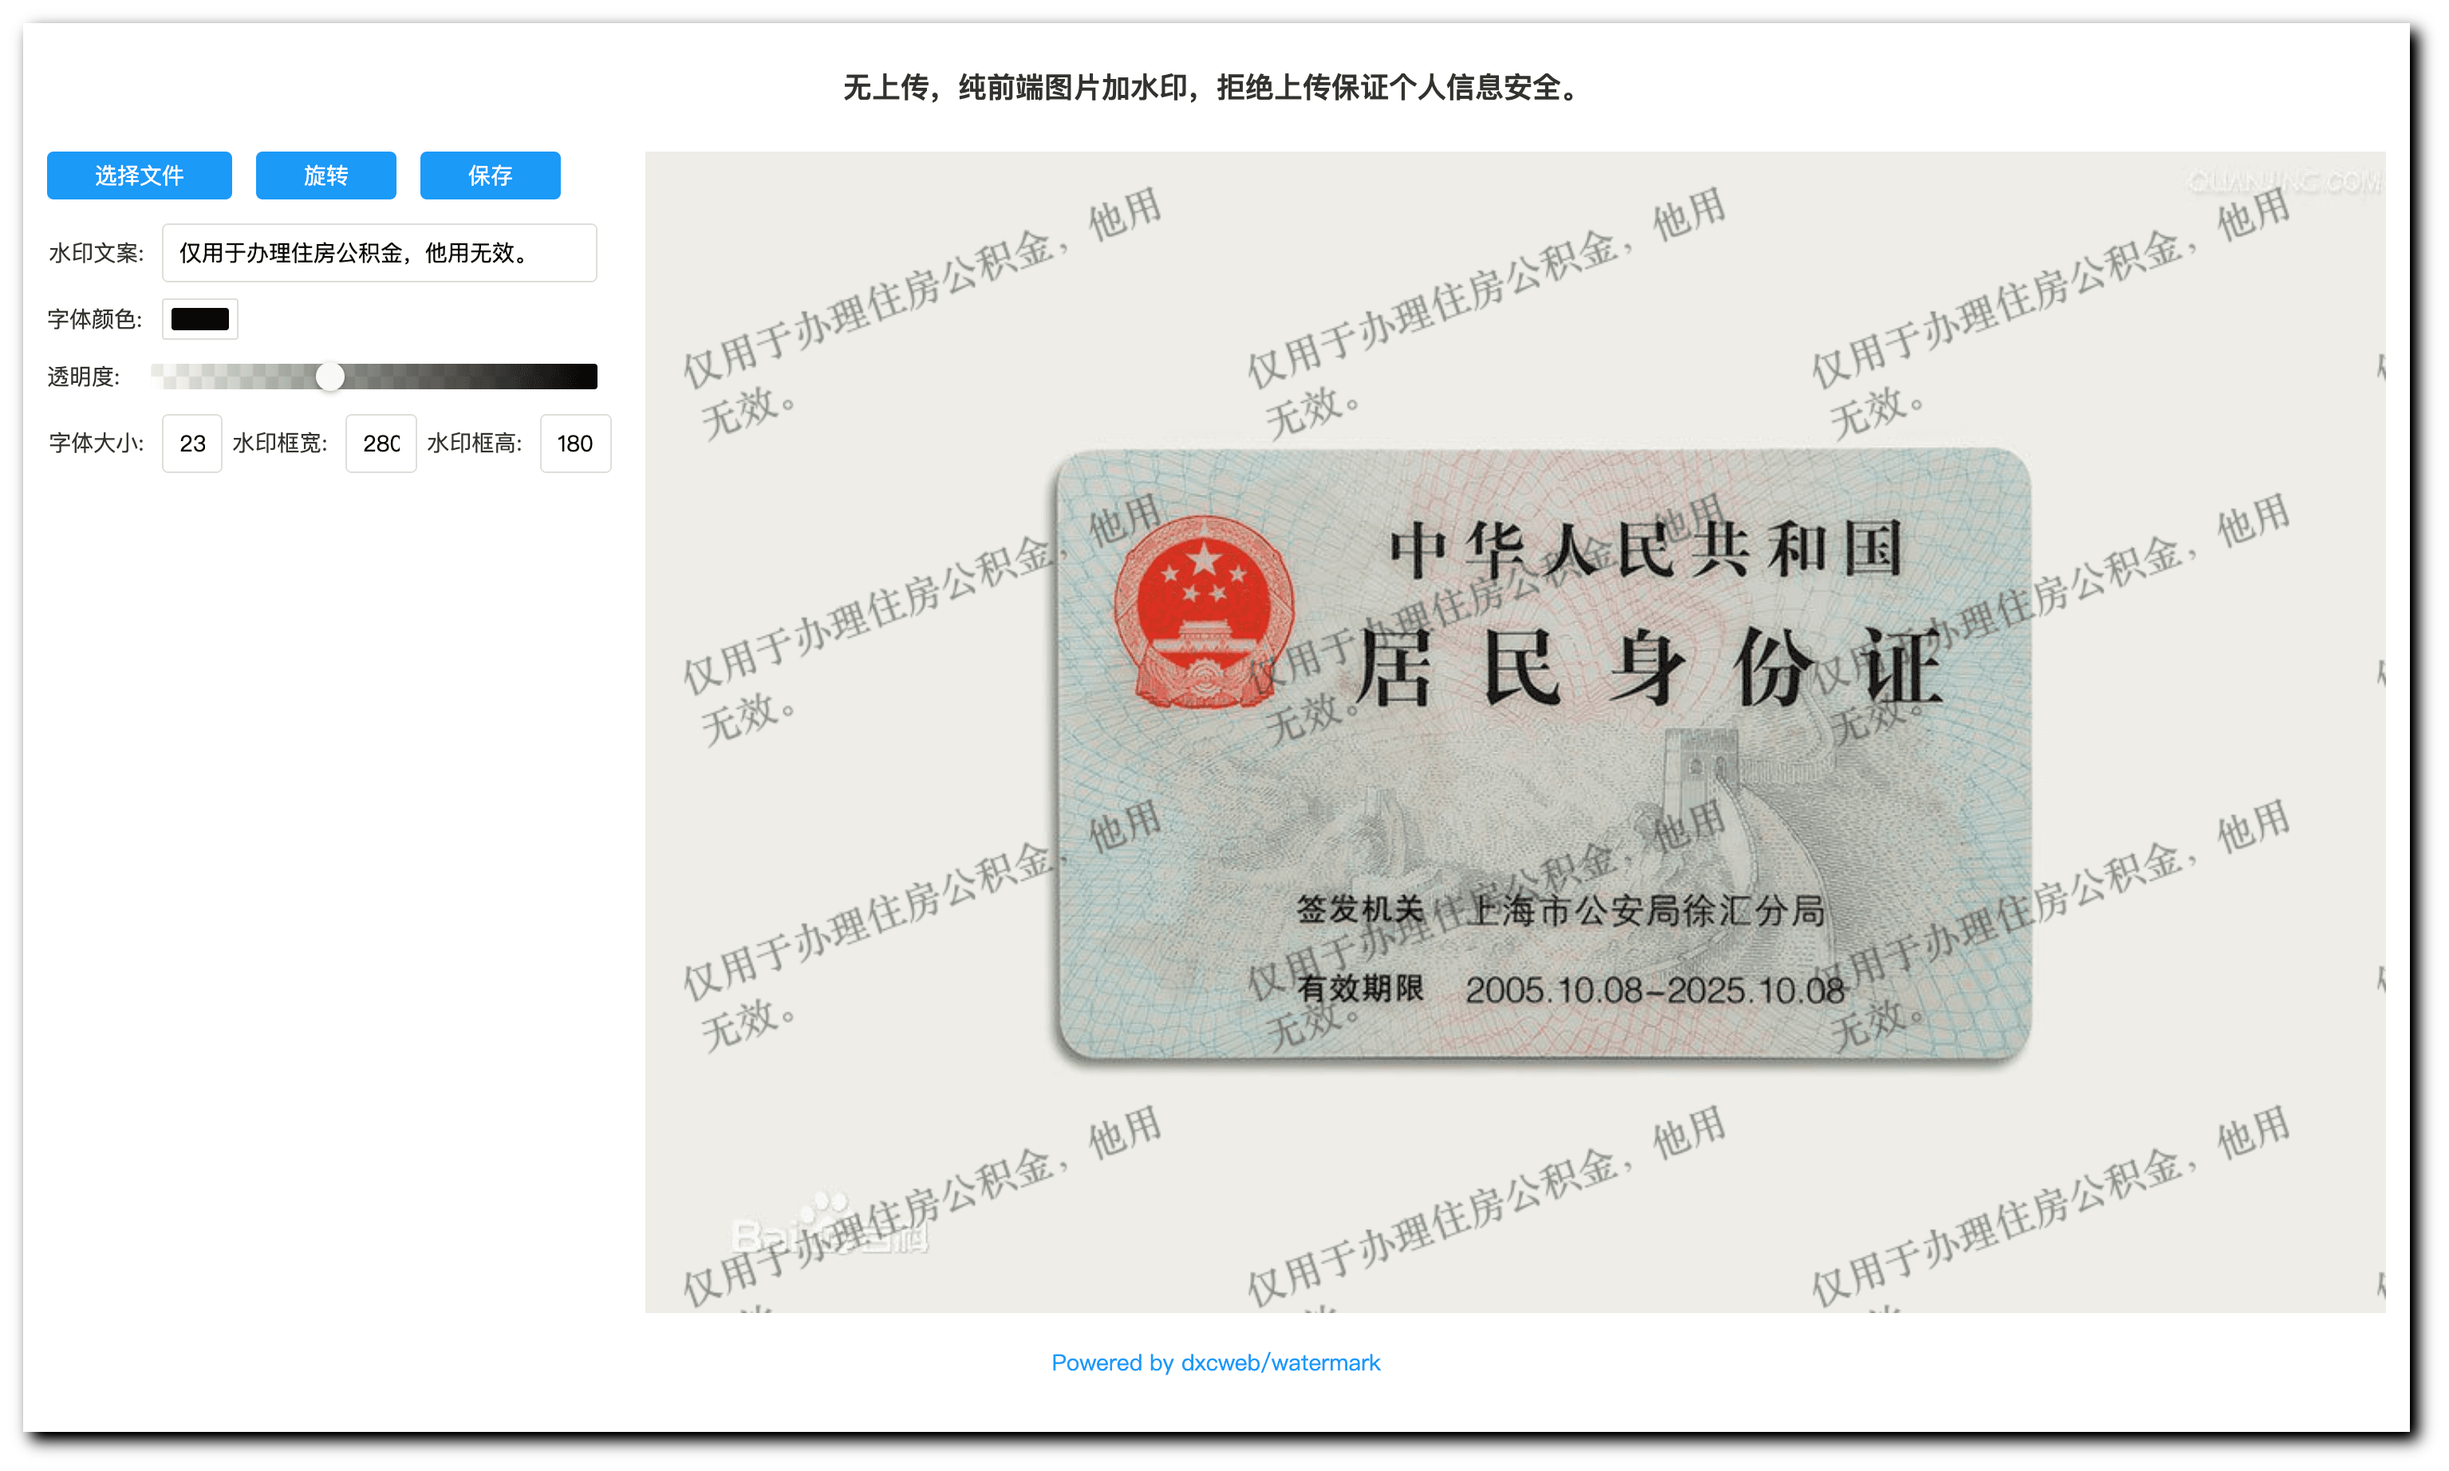
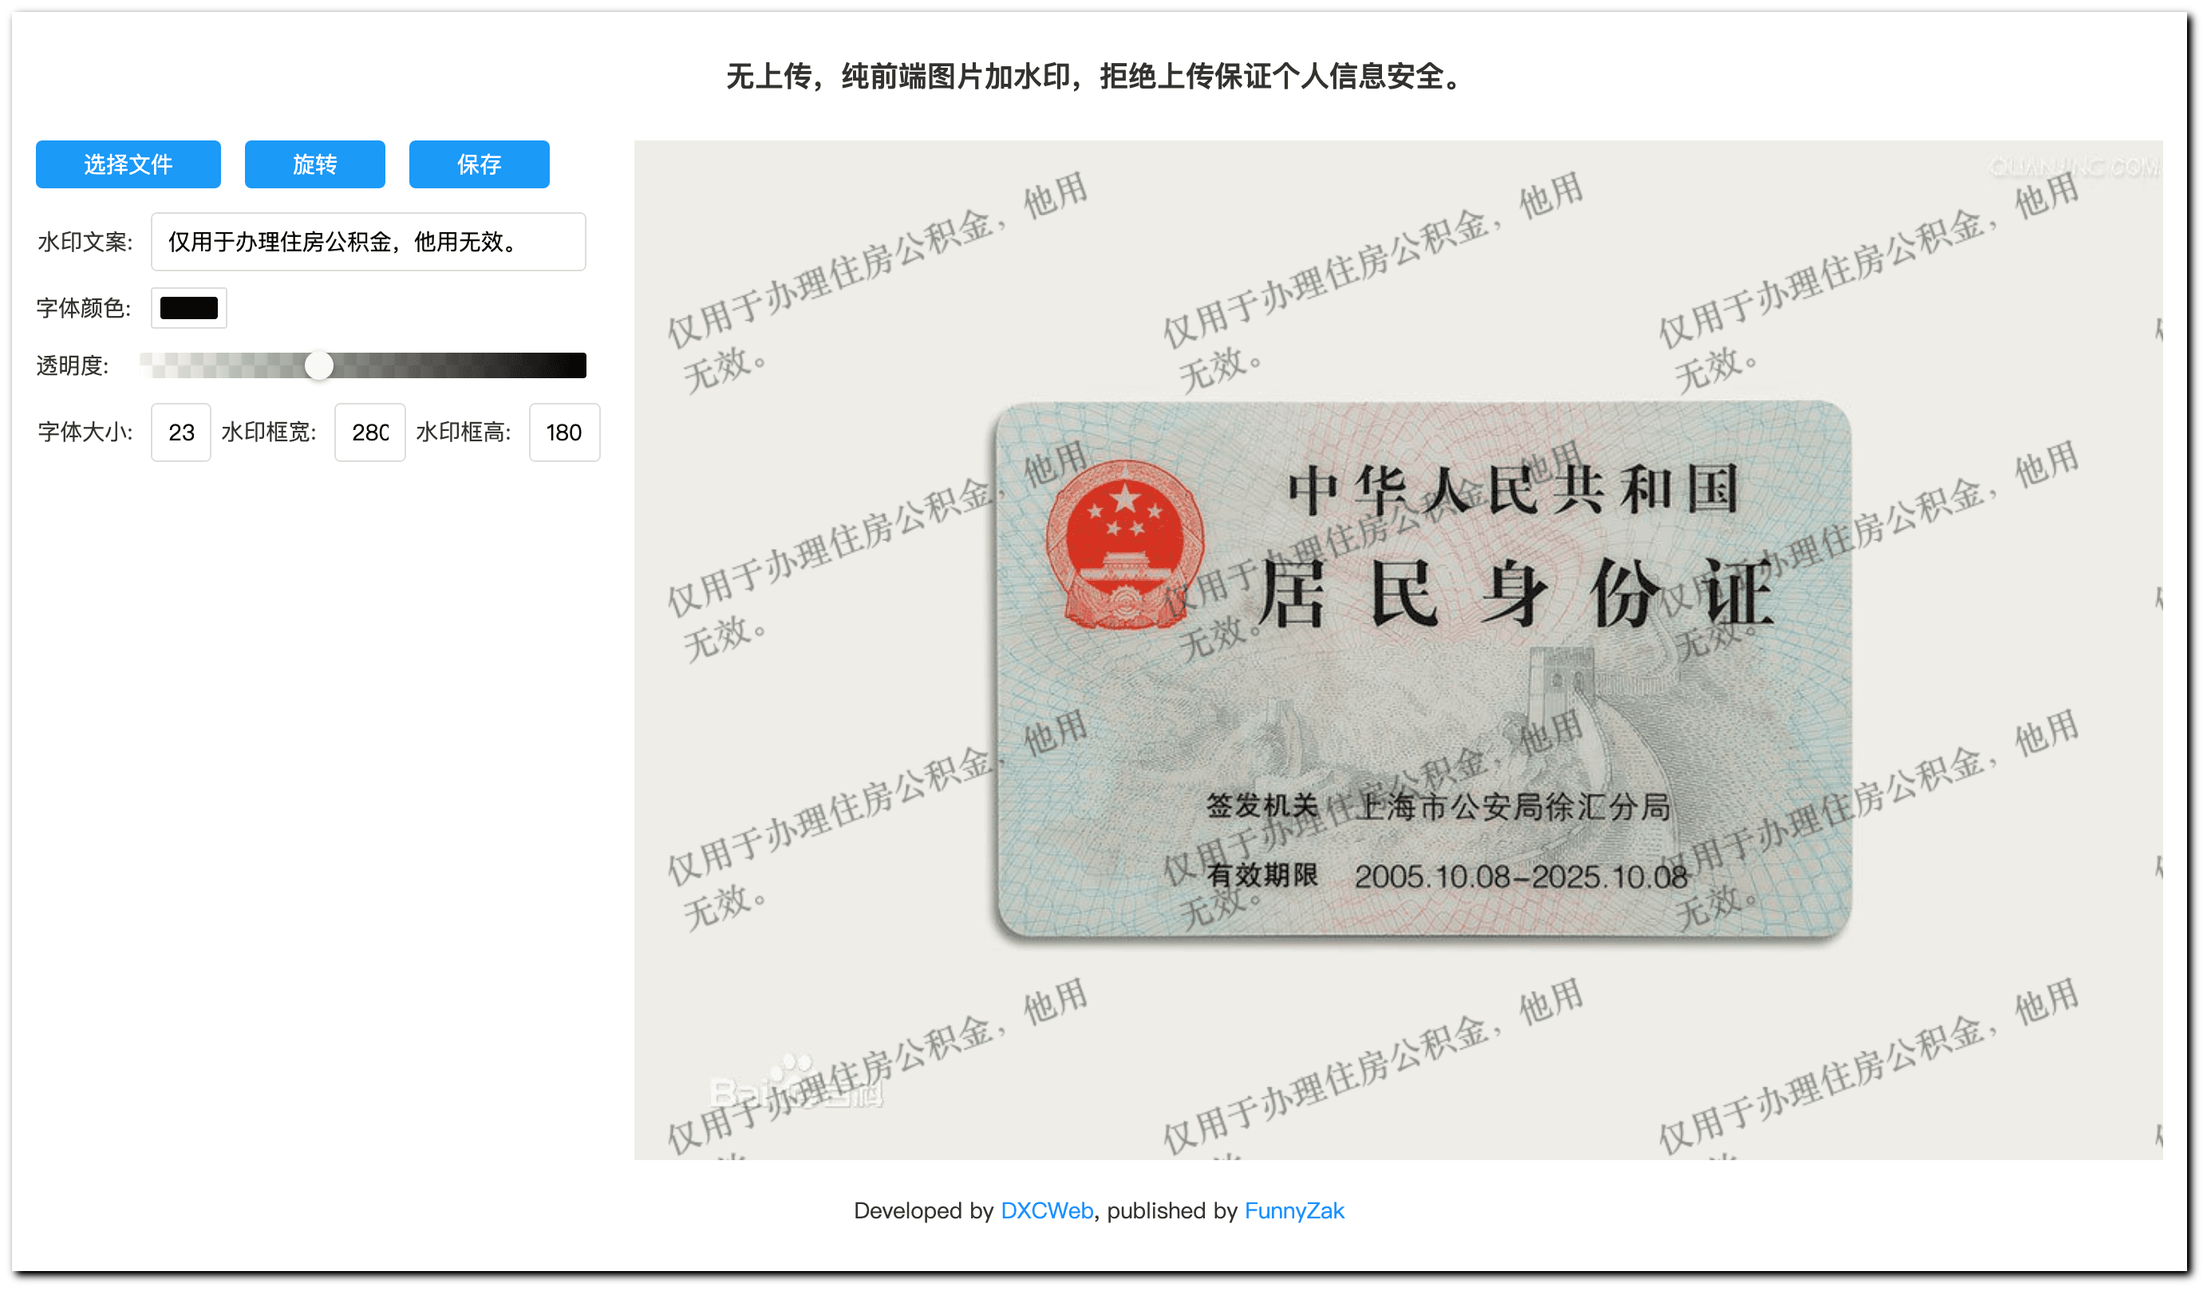
refactor: file server and DockerfileGo
* refactor: Add file server and DockerfileGo

* chore: Update Docker image names and add developer information

* chore: Add build status badge to README.md

diff --git a/src/routes/IndexPage.js b/src/routes/IndexPage.js
@@ -23,11 +23,16 @@ export default class IndexPage extends React.Component {
           style={{
             padding: '20px 0 0',
           }}>
+          Developed by&nbsp;
           <a
             target='_blank'
             href='https://github.com/dxcweb/watermark'
             style={{ color: '#1890ff' }}>
-            Powered by dxcweb/watermark
+            DXCWeb
+          </a>
+          , published by&nbsp;
+          <a target='_blank' href='https://github.com/funnyzak/watermark' style={{ color: '#1890ff' }}>
+            FunnyZak
           </a>
         </Block>
       </div>

diff --git a/cmd/srv/main.go b/cmd/srv/main.go
@@ -1,0 +1,34 @@
+// Description: A simple file server
+package main
+
+import (
+	"fmt"
+
+	"github.com/gin-gonic/gin"
+	"github.com/spf13/pflag"
+)
+
+type ClIParam struct {
+	Port      uint
+	StaticDir string
+}
+
+func parseCommandLineParams() (cliParam ClIParam) {
+	pflag.UintVarP(&cliParam.Port, "port", "p", 8080, "server port")
+	pflag.StringVarP(&cliParam.StaticDir, "static-dir", "s", "./", "static file directory")
+	pflag.Parse()
+	return cliParam
+}
+
+func run(param ClIParam) {
+	gin.SetMode(gin.ReleaseMode)
+	r := gin.Default()
+	r.StaticFS("/", gin.Dir(param.StaticDir, false))
+	fmt.Printf("Server is running on port %v, static file directory is %v\n", param.Port, param.StaticDir)
+	r.Run(fmt.Sprintf(":%v", param.Port))
+}
+
+func main() {
+	cliParam := parseCommandLineParams()
+	run(cliParam)
+}

diff --git a/README.md b/README.md
@@ -1,5 +1,6 @@
 # Watermark
   
+  [![Build Status][build-status-image]][build-status]
   [![Docker Pulls](https://img.shields.io/docker/pulls/funnyzak/watermark)](https://hub.docker.com/r/funnyzak/watermark/tags)
   [![Docker Image Size (latest by date)](https://img.shields.io/docker/image-size/funnyzak/watermark)](https://hub.docker.com/r/funnyzak/watermark/tags)
   
@@ -32,3 +33,6 @@ yarn && yarn start
 ## CopyRight
 
 Powered by [dxcweb/watermark](https://github.com/dxcweb/watermark)
+
+[build-status-image]: https://github.com/funnyzak/watermark/actions/workflows/docker_build.yml/badge.svg
+[build-status]: https://github.com/funnyzak/watermark/actions
